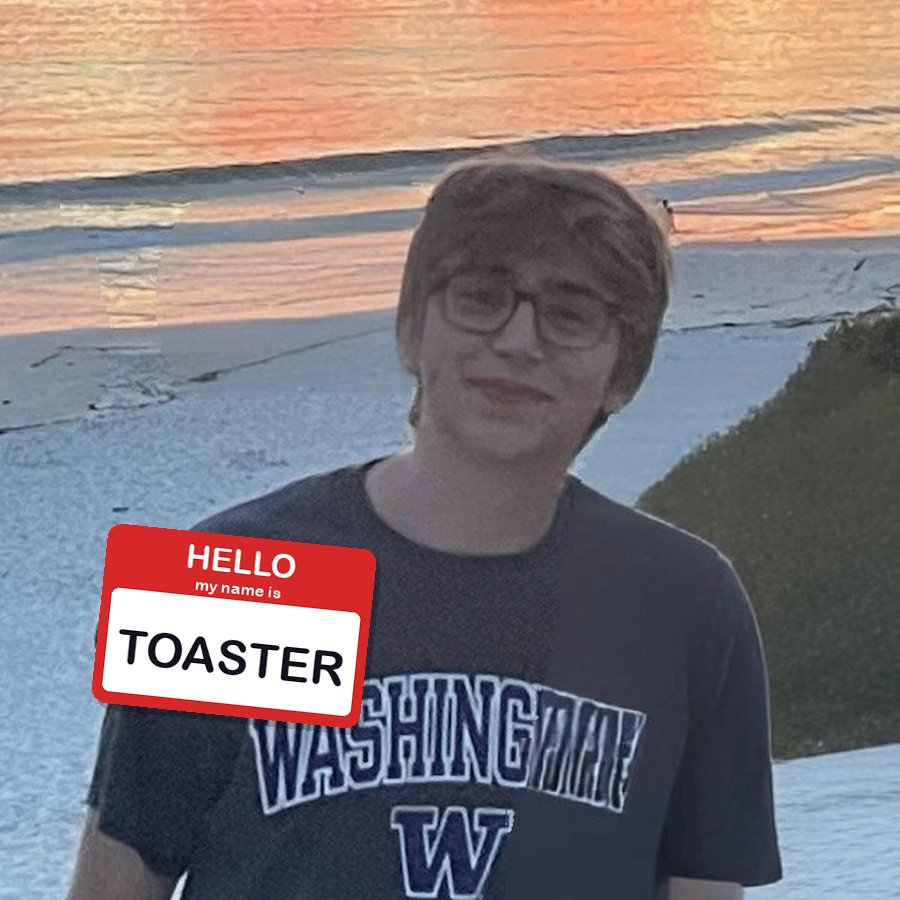
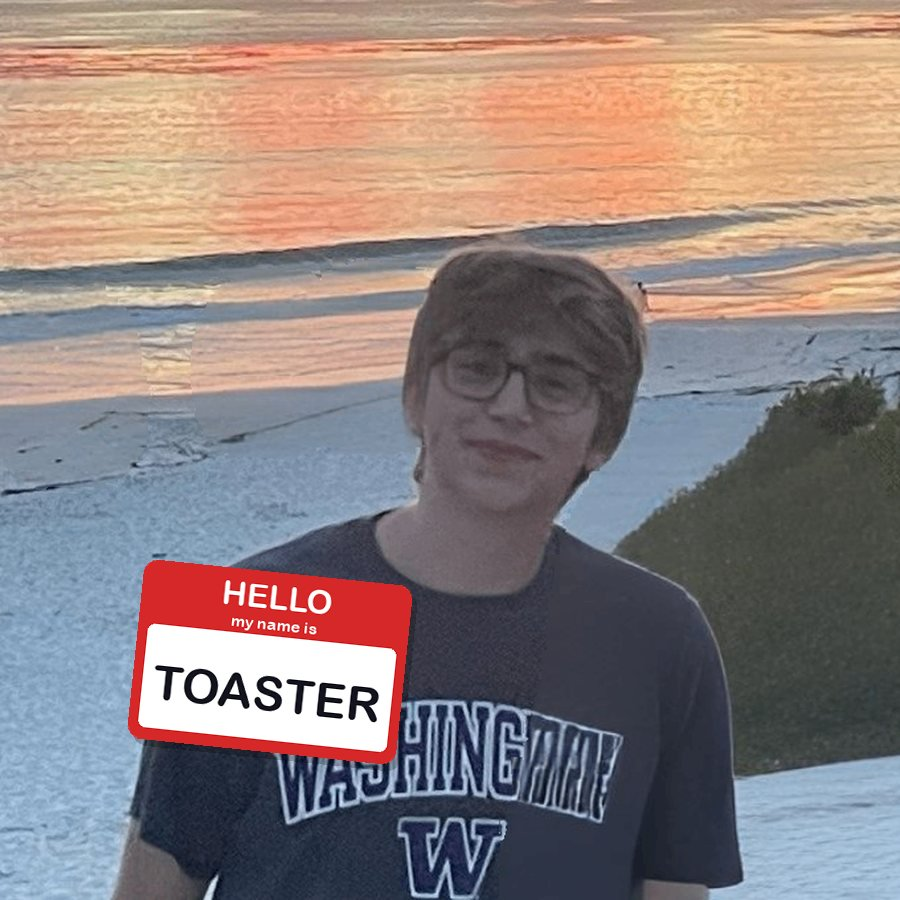
profile photo: slightly wider crop; swap golden retriever tag for DOG

diff --git a/manim/clip_attack.py b/manim/clip_attack.py
@@ -19,7 +19,7 @@ from transformers import CLIPModel, CLIPProcessor
 ROOT = Path(__file__).resolve().parents[1]
 # photo id -> (file, where the name tag goes as fractions of width/height)
 PHOTOS = {
-    "beach": (ROOT / "assets/img/prof_pic_beach.jpg", (0.10, 0.58)),
+    "beach": (ROOT / "assets/img/prof_pic_beach.jpg", (0.14, 0.62)),
 }
 OUT_IMG = ROOT / "assets/img/attack"
 OUT_JSON = ROOT / "_data/clip_attack.json"
@@ -28,7 +28,7 @@ MODEL = "openai/clip-vit-base-patch32"
 # What the sticky note says, keyed by a short id.
 STICKERS = {
     "potato": "POTATO",
-    "retriever": "GOLDEN\nRETRIEVER",
+    "dog": "DOG",
     "toaster": "TOASTER",
 }
 
@@ -38,7 +38,7 @@ LABELS = [
     "a photo of a person at the beach",
     "a photo of a sunset",
     "a photo of a potato",
-    "a photo of a golden retriever",
+    "a photo of a dog",
     "a photo of a toaster",
 ]
 
